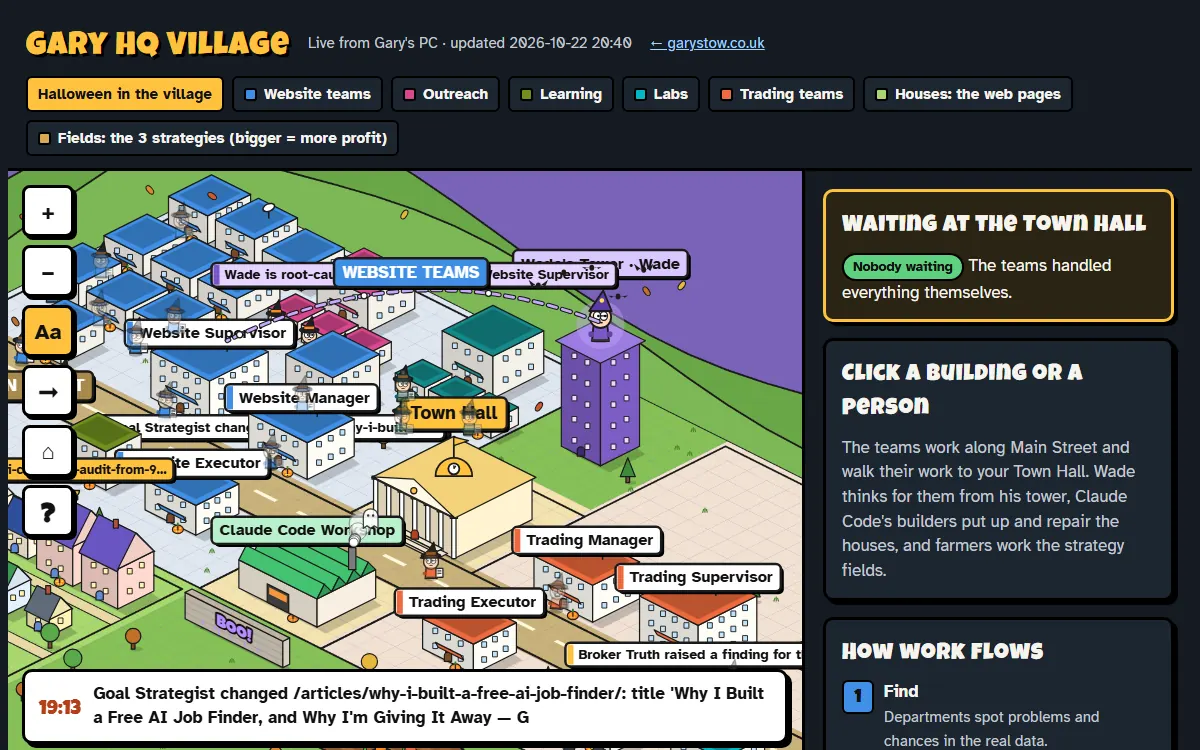
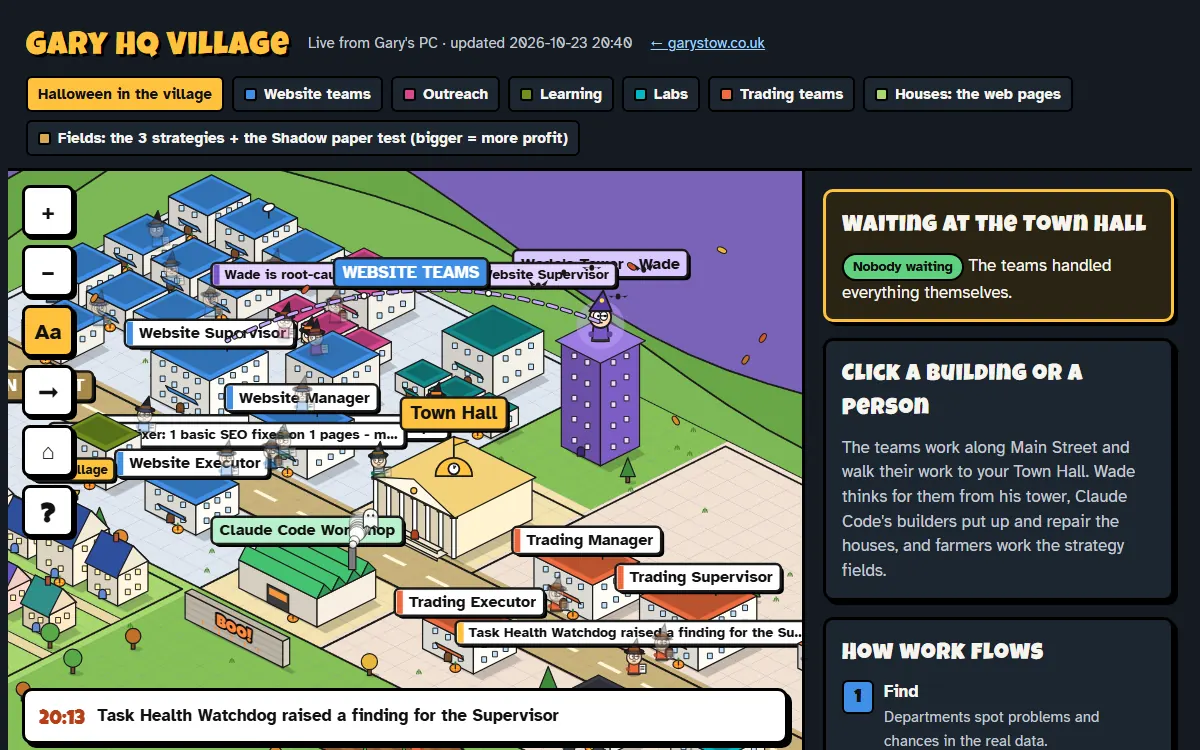
Village: refresh the public data (2026-10-23 20:40)

diff --git a/village/index.html b/village/index.html
@@ -11,10 +11,7 @@
 <meta property="og:title" content="Gary HQ Village: my AI teams at work">
 <meta property="og:description" content="Real AI automation teams on my own PC, drawn as a village you can watch and click around.">
 <meta property="og:url" content="https://garystow.co.uk/village/">
-<meta property="og:image" content="https://garystow.co.uk/assets/village-preview.jpg">
-<meta property="og:image:width" content="1200">
-<meta property="og:image:height" content="630">
-<meta name="twitter:card" content="summary_large_image">
+<meta property="og:image" content="https://garystow.co.uk/assets/village-preview.webp">
 <link rel="icon" href="/favicon.ico">
 <script type="application/ld+json">
 {"@context":"https://schema.org","@type":"WebPage","name":"Gary HQ Village","url":"https://garystow.co.uk/village/","author":{"@type":"Person","name":"Gary Stow","url":"https://garystow.co.uk/"},"description":"Gary Stow's AI automation teams shown as a live cartoon village."}
@@ -103,7 +100,7 @@ a{color:#9fd0ff}
       <span class="chip"><span class="dot" style="background:#00b8c4"></span>Labs</span>
       <span class="chip"><span class="dot" style="background:var(--trade)"></span>Trading teams</span>
       <span class="chip"><span class="dot" style="background:#a8d86e"></span>Houses: the web pages</span>
-      <span class="chip"><span class="dot" style="background:#d9a94f"></span>Fields: the 3 strategies (bigger = more profit)</span>
+      <span class="chip"><span class="dot" style="background:#d9a94f"></span>Fields: the 3 strategies + the Shadow paper test (bigger = more profit)</span>
     </div>
   </header>
 
@@ -213,7 +210,7 @@ const BUILDINGS = [
   ["shadowb","Shadow Books","labs","dept",44.9,18.4,1.6,1.4,1.0,"Forward tests with no money: frozen premarket rules and box bounces, scored on real prices every weeknight."],
   ["datadesk","Data Desk","labs","dept",41.5,19.6,1.6,1.4,1.0,"Checks every price folder is still updating each morning and fills in missing history."],
   ["bear","Bear Squad Dojo","bear","dept",36,16.6,3,2.4,1.5,"The ninjas test making money when the market falls, using inverse funds, on paper only. They never place an order: a model only goes live with Gary's YES.",1],
-  ["store","Harvest Store","store","store",38.8,29.6,3,2.4,1.5,"Everything the three strategy fields have harvested, added together. Crates of flowers when the combined result is up; the bin fills with wilted stems when it is down. Demo money after fees.",1],
+  ["store","Harvest Store","store","store",44,29.6,3,2.4,1.5,"Everything the three strategy fields have harvested, added together. Crates of flowers when the combined result is up; the bin fills with wilted stems when it is down. Demo money after fees.",1],
   ["obs","The Observatory","obs","dept",15.2,1.2,2.6,2.6,2.4,"Scans the horizon every evening for new opportunities, scores each one against a rubric, and only brings the best to the Town Hall. Nothing happens without Gary's YES.",1],
   ["obsl","Lookout","obs","dept",14.9,4.5,1.5,1.4,1.0,"Scans the horizon every evening and keeps only what fits."],
   ["obss","Star Chart Room","obs","dept",16.6,4.5,1.5,1.4,1.0,"Scores each find against a rubric; only the best go to the Town Hall."],
@@ -225,7 +222,7 @@ const BUILDINGS = [
   ["listen","Listening Post (Learning & Industry)","learn","dept",10.4,16.6,2.2,1.8,2.2,"Reads search, PPC and AI news, learning pieces and what's trending every week. Wade picks what matters and suggests article ideas to the Content Writer. Headlines and links come straight from the sources.",1],
 ];
 // Every strategy field starts the same size, then grows or shrinks with its real result after fees (demo account for now).
-const FIELD_BASE = [["game","The Game","Premarket runners, scalp 10%",29.5,22.5],["m1","Model 1","Same-day continuation",38.5,22.5],["m2","Model 2","Range-bound bouncy ball",29.5,29]];
+const FIELD_BASE = [["game","The Game","Premarket runners, scalp 10%",29.5,22.5],["m1","Model 1","Same-day continuation",38.5,22.5],["m2","Model 2","Range-bound bouncy ball",29.5,29],["shadow","Shadow","Paper test: unfilled Game orders bought at the open",36.8,29]];
 const FIELDS = FIELD_BASE.map(([id, name, desc, x, y]) => {
   const f = (DATA.fields || {})[id] || {net: 0}, k = Math.max(.6, Math.min(1.45, 1 + (f.net || 0) / 400));
   const w = 4.4 * k, d = 3 * k;
@@ -252,13 +249,13 @@ const buildings = BUILDINGS.map(b => ({kind: "b", id: b[0], name: b[1], team: b[
   if (st) { st.net = ["game", "m1", "m2"].reduce((t, k) => t + ((F[k] || {}).net || 0), 0);
     st.name = "Harvest Store · all 3 models" + (PRIVATE ? (st.net >= 0 ? " · +£" : " · −£") + Math.abs(st.net).toFixed(0) : st.net > 0 ? " · stocked" : st.net < 0 ? " · bin day" : ""); } }
 const houses = [];
-const maxArticle = Math.max(0, ...DATA.pages.filter(p => p[3] !== "Site page").map(p => p[4]));
+const maxArticle = Math.max(0, ...DATA.pages.map(p => p[4]));   // 23 Oct 2026: the trophy goes to the most-visited page of any kind
 DATA.pages.forEach((p, i) => {
   const [slug, title, path, section, views, imps] = p, col = i % 8, row = Math.floor(i / 8);
   const tier = views >= 20 ? 5 : views >= 6 ? 4 : views >= 3 ? 3 : views >= 1 ? 2 : 1, size = [0, 1.05, 1.15, 1.35, 1.55, 1.85][tier];
   houses.push({kind: "h", id: "page:" + slug, slug, title, path: path || "/articles/" + slug + "/", section, views, imps, tier,
     x: 1 + col * 2.3 + (1.9 - size) / 2, y: 22.3 + row * 3.5 + (1.9 - size) / 2, w: size, d: size, floors: [0, .8, 1, 1.4, 1.8, 2.4][tier],
-    trophy: section !== "Site page" && views === maxArticle && views > 0, garden: imps >= 20, work: 0, pop: 0});
+    trophy: views === maxArticle && views > 0, garden: imps >= 20, work: 0, pop: 0});
 });
 // the construction site: the next page is always being built
 const NEXT = DATA.next_house || {title: "Next article"};
@@ -923,7 +920,7 @@ function frame(now) {
   drawWadeBeam();
   if (labelMode > 0) FIELDS.forEach(f => { const p = iso(f[3] + f[5] / 2, f[4] - .2), net = f[7].net || 0;
     const tag = PRIVATE ? (net >= 0 ? " · +£" : " · −£") + Math.abs(net).toFixed(0) : net > 0 ? " · growing" : net < 0 ? " · wilting" : "";
-    label(f[1] + " · demo" + tag, p.x, p.y - 6, {size: 15, bg: net > 0 ? "#d9f7c4" : net < 0 ? "#ffd6cc" : "#ffe2b8", stripe: COL.trade}); });
+    label(f[1] + (f[0] === "shadow" ? " · paper test" : " · demo") + tag, p.x, p.y - 6, {size: 15, bg: net > 0 ? "#d9f7c4" : net < 0 ? "#ffd6cc" : "#ffe2b8", stripe: COL.trade}); });
   if (labelMode > 0) [["WEBSITE TEAMS", 10, .2, COL.web], ["TRADING TEAMS", 37, .2, COL.trade], ["MAIN STREET", 6, 15.8, "#a8894a"], ["HOUSES · the web pages", 10, RIVER_Y + .1, "#4f9a2a"], ["STRATEGY FIELDS", 37, 34.5, "#a86e3c"]]
     .forEach(([t, x, y, c]) => { const p = iso(x, y); label(t, p.x, p.y, {size: 17, bg: c, fg: "#fff"}); });
   FUN.over(dt);
@@ -988,7 +985,7 @@ function renderSelected() {
   if (s.kind === "h") {
     selName.textContent = s.title;
     selBody.innerHTML = `<div class="kv"><b>Section</b><span>${esc(s.section)}</span><b>Visits, 28 days</b><span>${s.views}</span><b>Google impressions</b><span>${s.imps}</span>
-      <b>House</b><span>${["", "Cottage", "House", "Two storeys", "Manor", "Grand hall"][s.tier]}${s.trophy ? " · trophy: most-visited article" : ""}${s.garden ? " · flower garden: 20+ impressions" : ""}</span></div>
+      <b>House</b><span>${["", "Cottage", "House", "Two storeys", "Manor", "Grand hall"][s.tier]}${s.trophy ? " · trophy: most-visited page" : ""}${s.garden ? " · flower garden: 20+ impressions" : ""}</span></div>
       <a href="https://garystow.co.uk${s.path}" target="_blank" rel="noopener">Open the page ↗</a>`; return; }
   selName.textContent = s.name; const e = latest[s.id];
   const wadeNote = s.role === "wade" ? `<p style="margin:0"><b>Right now:</b> the ${esc(byId[wadeTarget].name)} is waiting on Wade, who is ${esc(wadeMsg)}. Follow the purple beam.</p>` : "";
